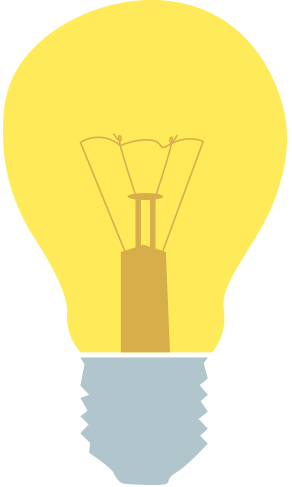
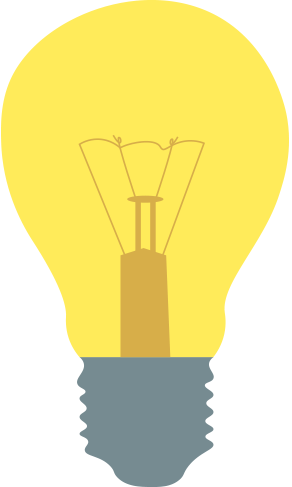
Updated previous version

diff --git a/css/BelinskiAdrianaPoster.css b/css/BelinskiAdrianaPoster.css
@@ -20,22 +20,7 @@ html,body {
 	position:absolute;
 	-webkit-animation: dont_move 1s forwards;
 	cubic-bezier (1,0,0,1);
-	font-family: "arial";
-}
-
-@-webkit-keyframes callyour_move{
-	0% {top: 0px; left: 2000px; top: 30%; color: white; font-size: 80px;}
-	100% {top: 0px; left: 25%; top: 30%; color: white; font-size: 80px;}
-}
-
-#callyour {
-	position:absolute;
-	-webkit-animation: callyour_move 1s forwards;
-	cubic-bezier (1,0,0,1);
-	left: 2000px;
-	width: 500px;
-	font-family: "arial";
-	animation-delay: 1s;
+	font-family: "Helvetica";
 }
 
 
@@ -51,7 +36,7 @@ html,body {
 	cubic-bezier (1,0,0,1);
 	left: 2000px;
 	width: 500px;
-	font-family: "arial";
+	font-family: 'Heebo', sans-serif;
 	animation-delay: 1s;
 }
 
@@ -66,7 +51,7 @@ html,body {
 	-webkit-animation: kids_move 1s forwards;
 	cubic-bezier (1,0,0,1);
 	left: -2000px;
-	font-family: "arial";
+	font-family: 'Heebo', sans-serif;
 	animation-delay: 2s;
 }
 
@@ -74,6 +59,7 @@ html,body {
 @-webkit-keyframes smart_move{
 	0% {left: 2000px; top: 65%; color: white; font-size: 140px;}
 	100% {left: 25%; top: 65%; color: white; font-size: 140px;}
+
 }
 
 #smart {
@@ -81,20 +67,21 @@ html,body {
 	-webkit-animation: smart_move 1s forwards;
 	cubic-bezier (1,0,0,1);
 	left: 2000px;
-	font-family: "arial";
+	font-family: 'Heebo', sans-serif;
 	animation-delay: 3s;
 }
 
 @-webkit-keyframes p1_move{
-	0% {top: 0px; top: -1000px;  right: 5%; color: white; font-family: serif; font-size: 30px;}
-	40% {top: 0px; top: -500px;  right: 5%; color: white; font-family: serif; font-size: 30px;}
-	100% {position: absolute; top: 5%; right: 5%; color: white; font-family: serif; font-size: 30px;}
+	0% {top: 0px; top: -1000px;  right: 5%; color: white; font-family: serif; font-size: 28px;}
+	40% {top: 0px; top: -500px;  right: 5%; color: white; font-family: serif; font-size: 28px;}
+	100% {position: absolute; top: 5%; right: 5%; color: white; font-family: serif; font-size: 28px;}
 }
 
 #p1 {
 	position:absolute;
 	-webkit-animation: p1_move 1s forwards;
 	cubic-bezier (1,0,0,1);
+	font-family: 'Halant', serif;
 	width: 500px;
 	height: 150px;
 	text-align: center;
@@ -103,9 +90,9 @@ html,body {
 }
 
 @-webkit-keyframes bulb_move{
-	0% {bottom: -1000px;  right: 15%;}
-	40% {bottom: -500px;  right: 15%;}
-	100% {position: absolute; bottom: 5%; right: 15%;}
+	0% {bottom: -1000px;  right: 17%;}
+	40% {bottom: -500px;  right: 17%;}
+	100% {position: absolute; bottom: 5%; right: 17%;}
 }
 
 #bulb {
@@ -114,7 +101,7 @@ html,body {
 	cubic-bezier (1,0,0,1);
 	animation-delay: 4s;
 	bottom: -1000px;
-	height: 350px;
+	height: 325px;
 	width: auto;
 }
 
@@ -139,7 +126,7 @@ html,body {
 
 @-webkit-keyframes colorblock1_move{
 	0% {background-color: #404096;}
-	100% {background-color: #43cbff;}
+	100% {background-color: #14bdfd;}
 
 }
 
@@ -155,7 +142,6 @@ html,body {
 }
 
 
-
 @-webkit-keyframes image_move{
 	0% {opacity: 0;}
 	100% {opacity: 1; }
@@ -169,14 +155,13 @@ html,body {
 	opacity: 0;
 	position: absolute;
 	background: url(../pictures/study1.jpg);
-	background-blend-mode: screen;
-	background-color: orange;
+	background-blend-mode: overlay;
+	background-color: #fdd414;
 	background-size: 100% auto;
 	-webkit-animation: image_move 2s forwards;
 	animation-delay: 13s;
 	background-repeat: no-repeat;
 }
-
 
 
 @-webkit-keyframes top_grow {
@@ -188,7 +173,7 @@ html,body {
 	width: 100%;
 	height: 100%;
 	opacity: 0;
-	background: url(../pictures/study1.jpg);
+	background: url(../pictures/study3.png);
 	background-repeat: no-repeat;
 	border-radius: 100%;
 	position: absolute;
@@ -205,6 +190,7 @@ html,body {
 #p2 {
 	position:absolute;
 	-webkit-animation: p2_move 2s forwards;
+	font-family: 'Halant', serif;
 	cubic-bezier (1,0,0,1);
 	width: 480px;
 	height: 150px;
@@ -212,39 +198,37 @@ html,body {
 	z-index: 1;
 	animation-delay: 14s;
 	top: -1000px;
-
 }
 
 
 @-webkit-keyframes p2p_move{
-	0% {top: -1000px;  right: -10%; color: white; font-family: serif; font-size: 30px;}
-	100% {position: absolute; top: 50%; right: -10%; color: white; font-family: serif; font-size: 30px; transform: translate(-50%, -50%);}
+	0% {top: -1000px;  right: -10%; color: #404096; font-family: serif; font-size: 30px;}
+	100% {position: absolute; top: 50%; right: -10%; color: #404096; font-family: serif; font-size: 30px; transform: translate(-50%, -50%);}
 }
 
 #p2p {
 	position:absolute;
 	-webkit-animation: p2p_move 2s forwards;
+	font-family: 'Halant', serif;
 	cubic-bezier (1,0,0,1);
 	width: 480px;
 	height: 150px;
 	text-align: center;
 	animation-delay: 14s;
 	top: -1000px;
-	text-shadow: 0.3em 0.3em 0.4em orange;
-
-
 }
 
 @-webkit-keyframes p3_move{
-	0% {top: -1000px; right: 400px; color: white; font-family: serif; font-size: 70px;}
-	40% {top: -500px; right: 400px; color: white; font-family: serif; font-size: 70px;}
-	100% {position: absolute; right: 400px; color: white; font-family: serif; font-size: 70px;}
+	0% {top: -1000px; right: 400px; color: white; font-size: 70px;}
+	40% {top: -500px; right: 400px; color: white; font-size: 70px;}
+	100% {position: absolute; right: 400px; color: white; font-size: 70px;}
 }
 
 #p3 {
 	position:absolute;
 	-webkit-animation: p3_move 3s forwards;
 	cubic-bezier (1,0,0,1);
+	font-family: 'Halant', serif;
 	width: 600px;
 	height: 150px;
 	text-align: center;
@@ -258,13 +242,18 @@ html,body {
 
 
 @-webkit-keyframes puzzle_move{
-	0% {opacity: 0; -webkit-transform: rotate(0deg); right: -500px; top: 70%;}
-	90% {opacity: 1; -webkit-transform: rotate(360deg); }
-	100% {opacity: 1; -webkit-transform: rotate(360deg); right: 43%; top: 70%;}
+	0% {opacity: 0; -webkit-transform: rotate(0deg); right: -300px; top: 70%;}
+	92% {opacity: 1; -webkit-transform: rotate(-390deg); right: 45%; top: 70%;}
+	96% {opacity: 1; -webkit-transform: rotate(-360deg); right: 45%; top: 70%;}
+	97% {opacity: 1; -webkit-transform: rotate(-367deg); right: 45%; top: 70%;}
+	100% {opacity: 1; -webkit-transform: rotate(-360deg); right: 45%; top: 70%;}
 }
 
 #puzzle{
 	opacity: 0;
+	width: 150px;
+	height: 150px;
+	background-size: 100%;
 	position: absolute;
 	-webkit-animation: puzzle_move 3s forwards;
 	animation-delay: 20s;
@@ -289,8 +278,8 @@ html,body {
 }
 
 @-webkit-keyframes square2_move{
-	0% { background-color: #43cbff; left: -3000px}
-	100% {background-color: #43cbff; left: 0px}
+	0% { background-color: #14bdfd; left: -3000px}
+	100% {background-color: #14bdfd; left: 0px}
 }
 
 .square2{
@@ -303,13 +292,14 @@ html,body {
 }
 
 @-webkit-keyframes p4_move{
-	0% {left: -3000px;  color: white; font-family: serif; font-size: 50px;}
-	100% {position: absolute; color: white; font-family: serif; font-size: 50px;}
+	0% {left: -3000px;  color: white; font-size: 45px;}
+	100% {position: absolute; color: white; font-size: 45px;}
 }
 
 #p4 {
 	-webkit-animation: p4_move 2s forwards;
 	cubic-bezier (1,0,0,1);
+	font-family: 'Halant', serif;
 	width: 800px;
 	height: 250px;
 	text-align: center;
@@ -343,20 +333,21 @@ html,body {
 }
 
 @-webkit-keyframes p5_move{
-	0% {top: -1000px; color: #5a41d6; font-family: serif;}
-	100% {	top: 50%; position: absolute;  color: #5a41d6; font-family: serif;}
+	0% {top: -1000px; color: #5a41d6; }
+	100% {	top: 50%; position: absolute;  color: #5a41d6; }
 }
 
 #p5 {
 	position:absolute;
 	-webkit-animation: p5_move 3s forwards;
+	font-family: 'Halant', serif;
 	cubic-bezier (1,0,0,1);
 	width: 600px;
 	height: 250px;
 	text-align: center;
 	animation-delay: 32s;
 	color: transparent;
-	font-size: 50px;
+	font-size: 45px;
 	z-index: 6;
 	top: 50%;
 	left: 70%;

diff --git a/index.html b/index.html
@@ -7,6 +7,7 @@
 		<link href="https://fonts.googleapis.com/css?family=Fjalla+One" rel="stylesheet">
 		<link rel="stylesheet" href="https://necolas.github.io/normalize.css/7.0.0/normalize.css" />
 		<link rel="stylesheet" href="css/BelinskiAdrianaPoster.css" />
+		<link href="https://fonts.googleapis.com/css?family=Halant" rel="stylesheet">
 		<title>CSS Animations</title>
 
 	</head>
@@ -33,9 +34,9 @@
 				<div id="image"></div>
 				<div id="top"></div>
 
-				 <p id="p2" class="mono">In a recent study, two groups of children were told two different things when they completed a puzzle: one group was told that they were smart while the other group was told that the were hard-working.</p>
+				 <p id="p2" class="mono">In a recent study, two groups of children were told two different things when they completed a puzzle: one group was told that they were smart while the other group was told that they were hard-working.</p>
 
-				 <p id="p2p" class="mono">In a recent study, two groups of children were told two different things when they completed a puzzle: one group was told that they were smart while the other group was told that the were hard-working.</p>
+				 <p id="p2p" class="mono">In a recent study, two groups of children were told two different things when they completed a puzzle: one group was told that they were smart while the other group was told that they were hard-working.</p>
 
 				<p id="p3" class="mono">Next, the adults gave the children a harder puzzle. </p>
 				<div class="square"></div>
@@ -49,7 +50,7 @@
 
 				<img id="bulb2" src="pictures/bulb2.png" alt="bulb2" />
 
-				<img id="puzzle" src="pictures/puzzle.png" alt="puzzle" />
+				<img id="puzzle" src="pictures/rubix.png" alt="puzzle" />
 
 
 			</div> <!-- end of container -->
